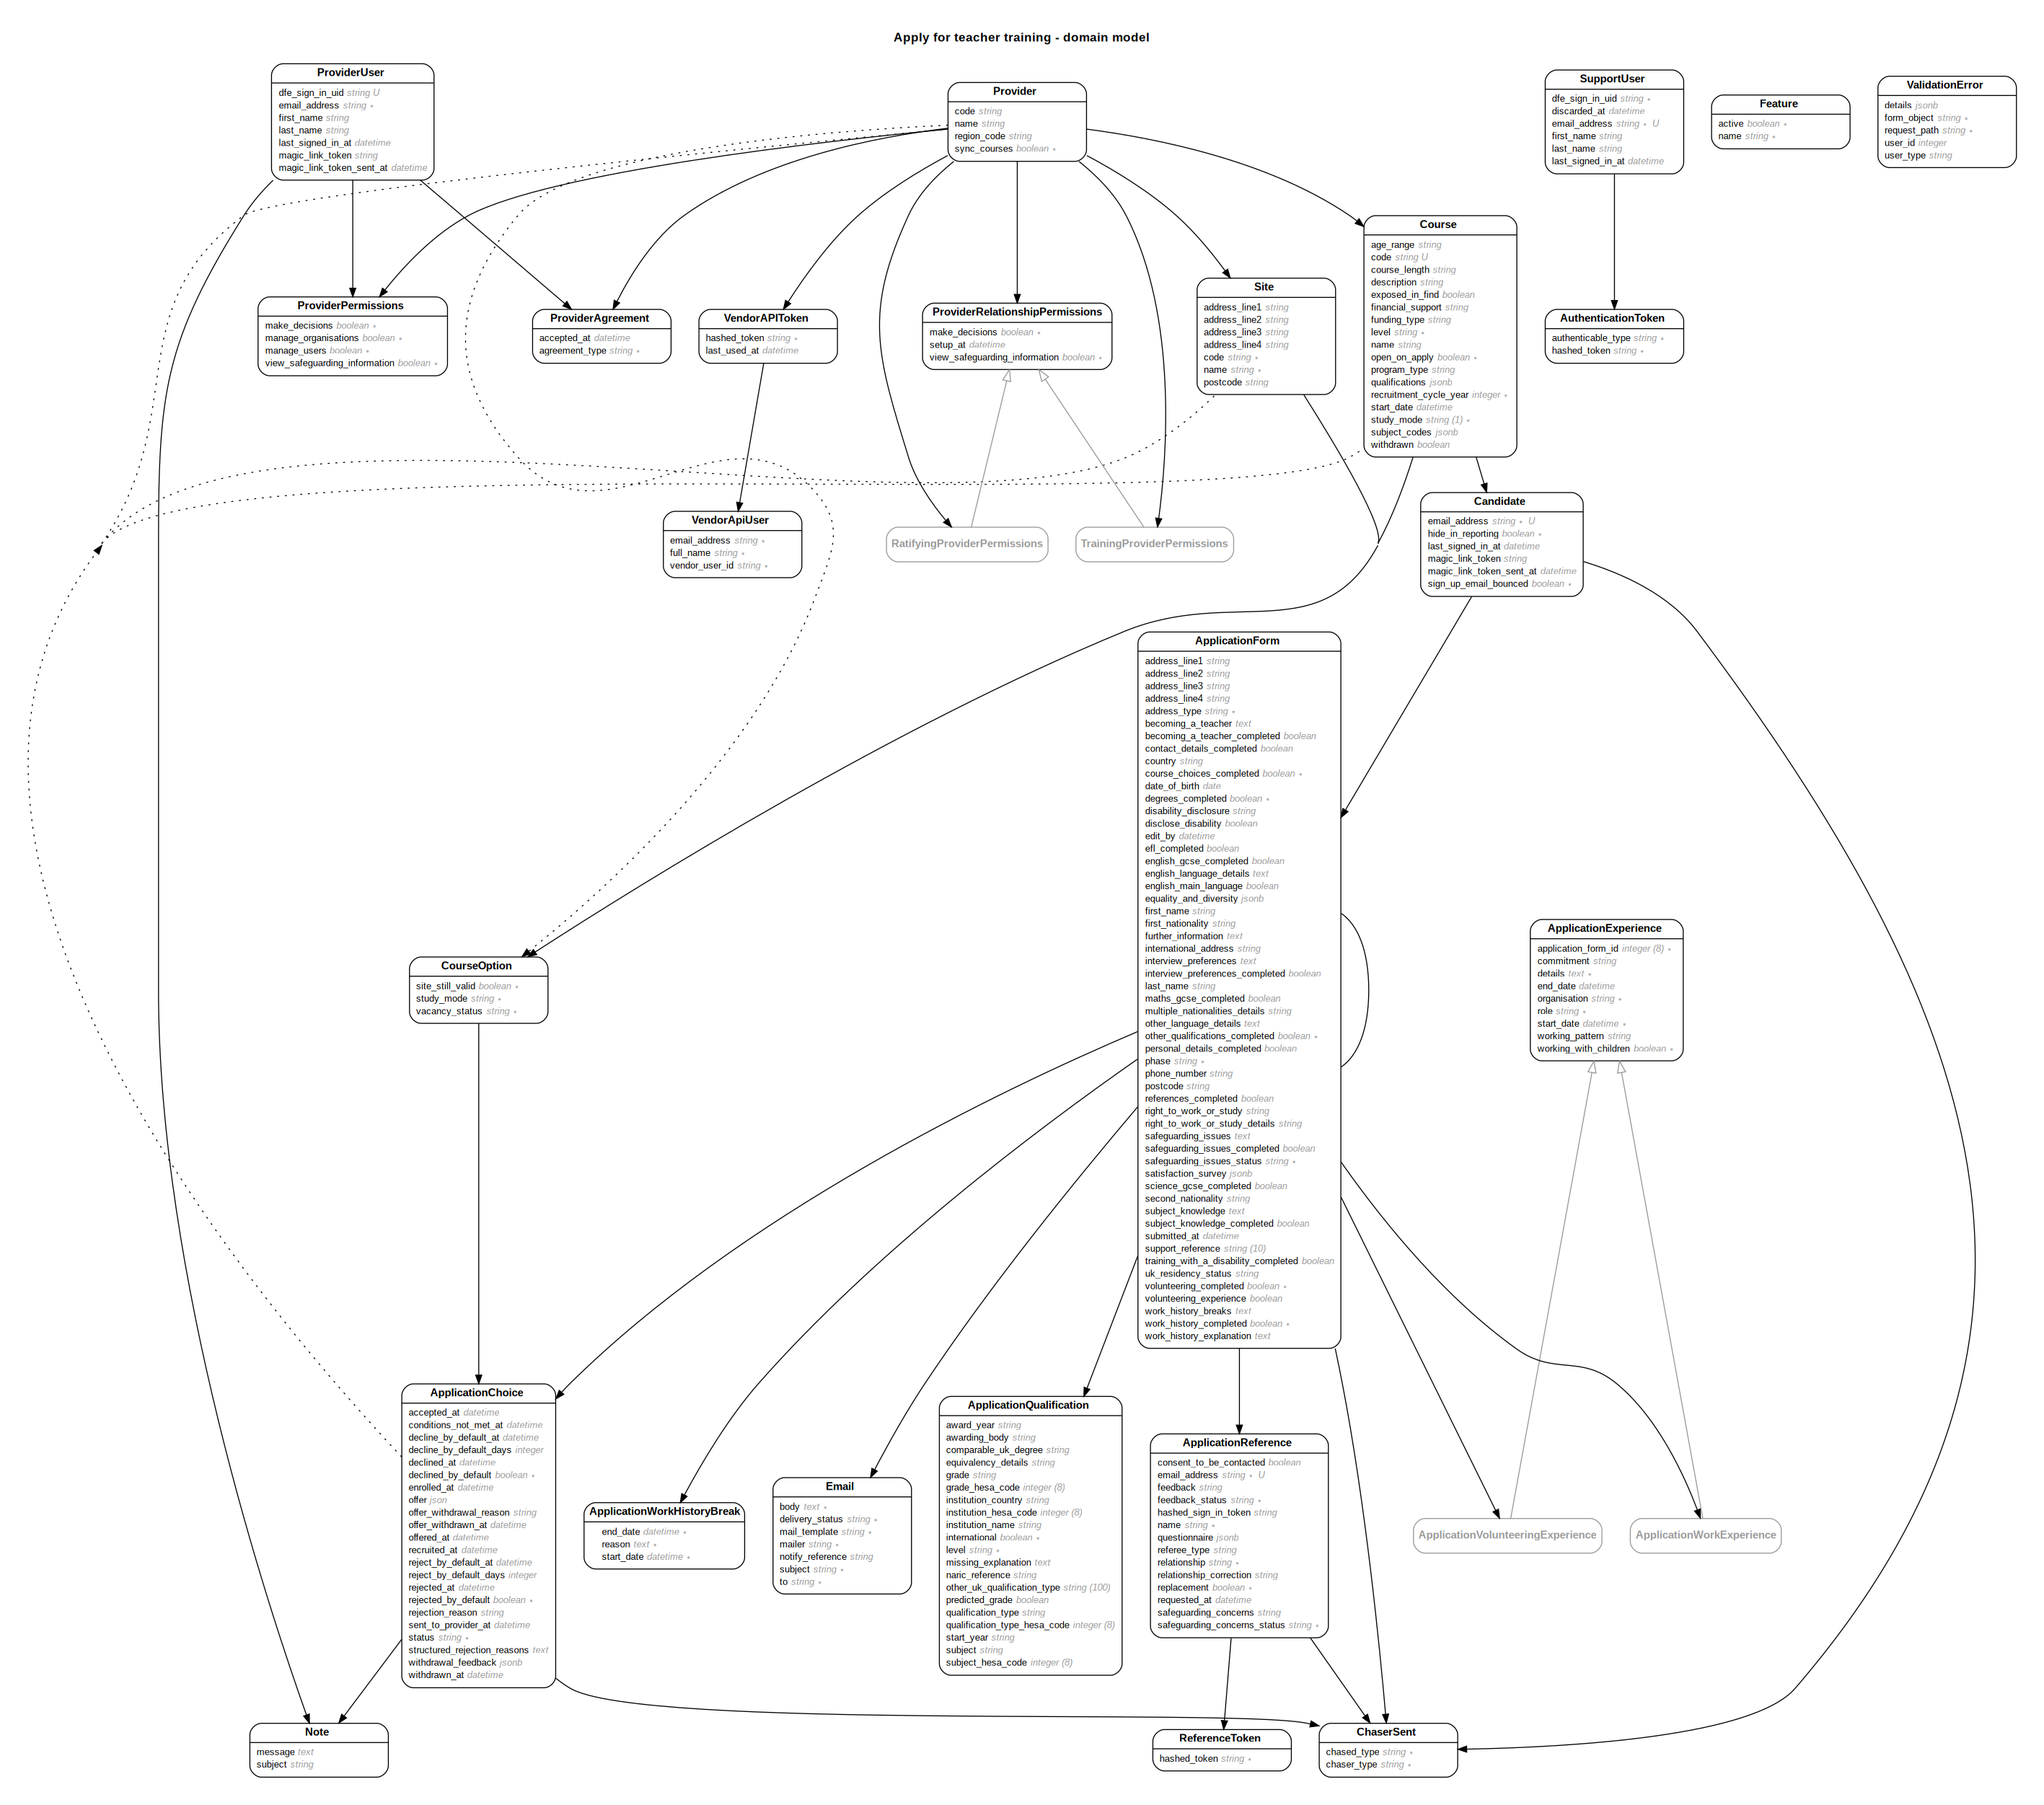
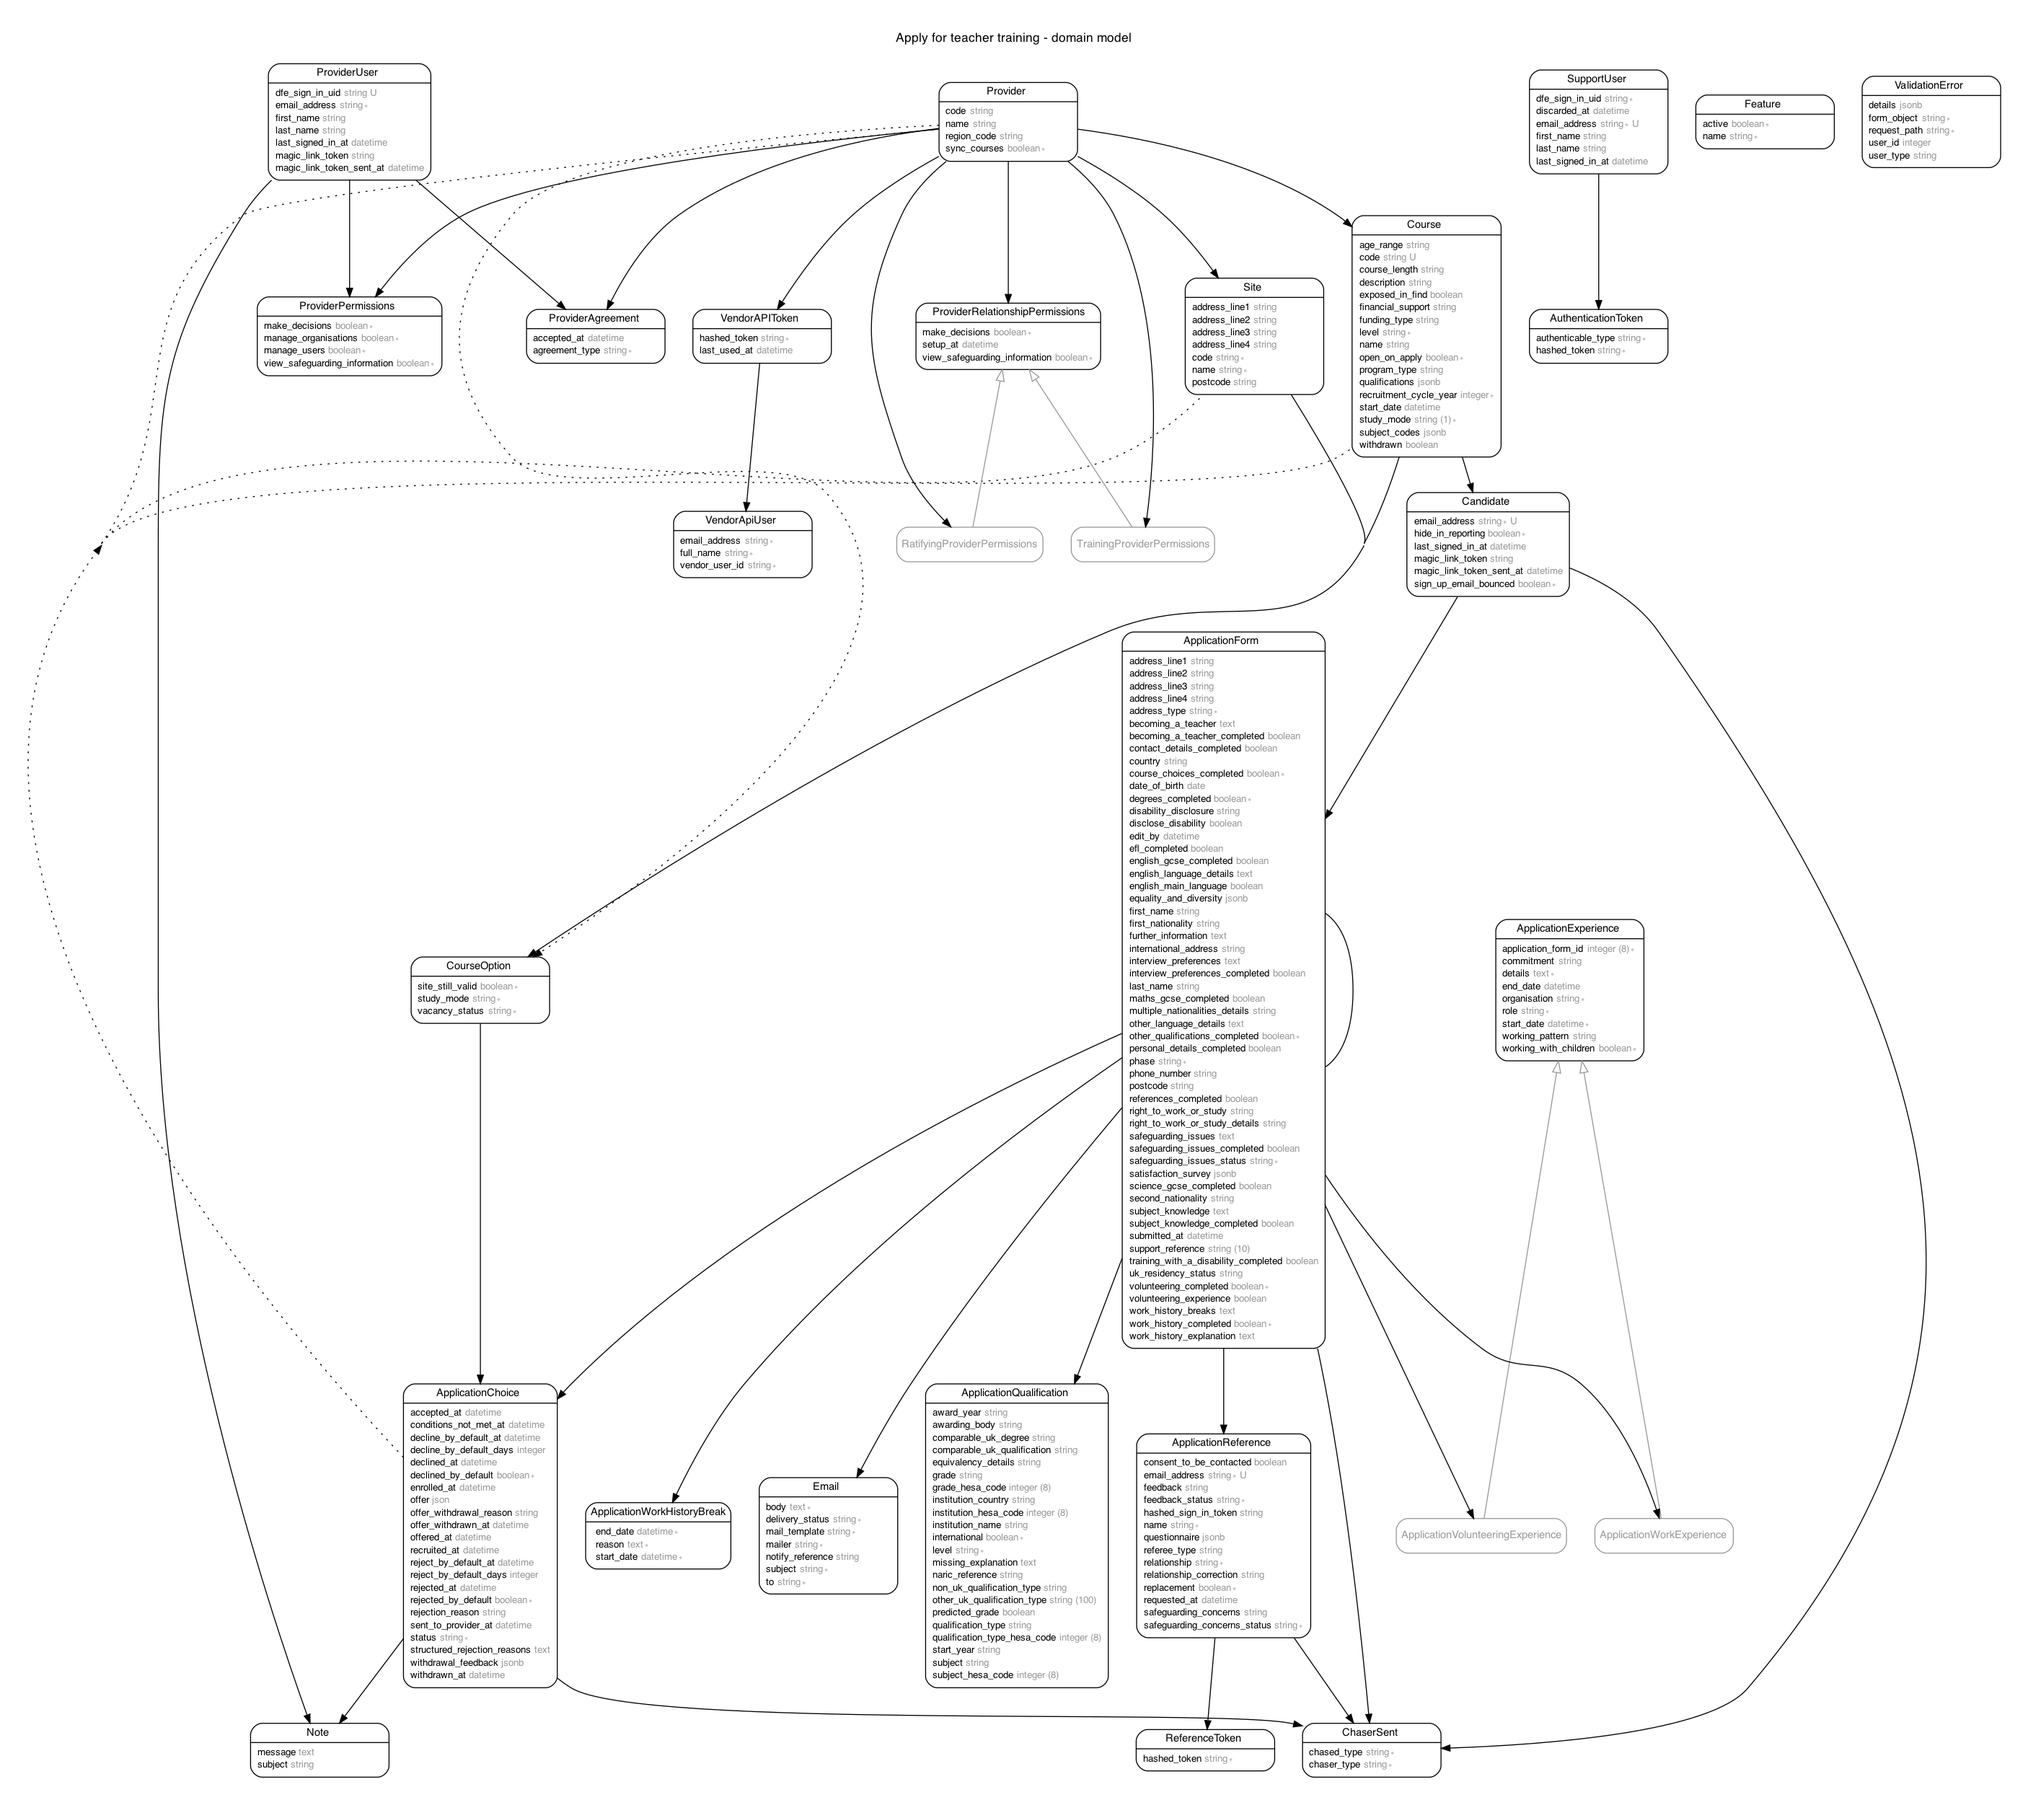
Add non-uk gcse columns to application qualification

diff --git a/db/schema.rb b/db/schema.rb
@@ -10,7 +10,7 @@
 #
 # It's strongly recommended that you check this file into your version control system.
 
-ActiveRecord::Schema.define(version: 2020_07_08_121600) do
+ActiveRecord::Schema.define(version: 2020_07_10_101438) do
 
   # These are extensions that must be enabled in order to support this database
   enable_extension "pgcrypto"
@@ -151,6 +151,8 @@ ActiveRecord::Schema.define(version: 2020_07_08_121600) do
     t.boolean "international", default: false, null: false
     t.string "naric_reference"
     t.string "comparable_uk_degree"
+    t.string "non_uk_qualification_type"
+    t.string "comparable_uk_qualification"
     t.index ["application_form_id"], name: "index_application_qualifications_on_application_form_id"
     t.index ["grade_hesa_code"], name: "qualifications_by_grade_hesa_code"
     t.index ["institution_hesa_code"], name: "qualifications_by_institution_hesa_code"

diff --git a/db/migrate/20200710101438_add_non_uk_gcse_columnns_to_application_qualification.rb b/db/migrate/20200710101438_add_non_uk_gcse_columnns_to_application_qualification.rb
@@ -1,0 +1,6 @@
+class AddNonUkGcseColumnnsToApplicationQualification < ActiveRecord::Migration[6.0]
+  def change
+    add_column :application_qualifications, :non_uk_qualification_type, :string
+    add_column :application_qualifications, :comparable_uk_qualification, :string
+  end
+end
